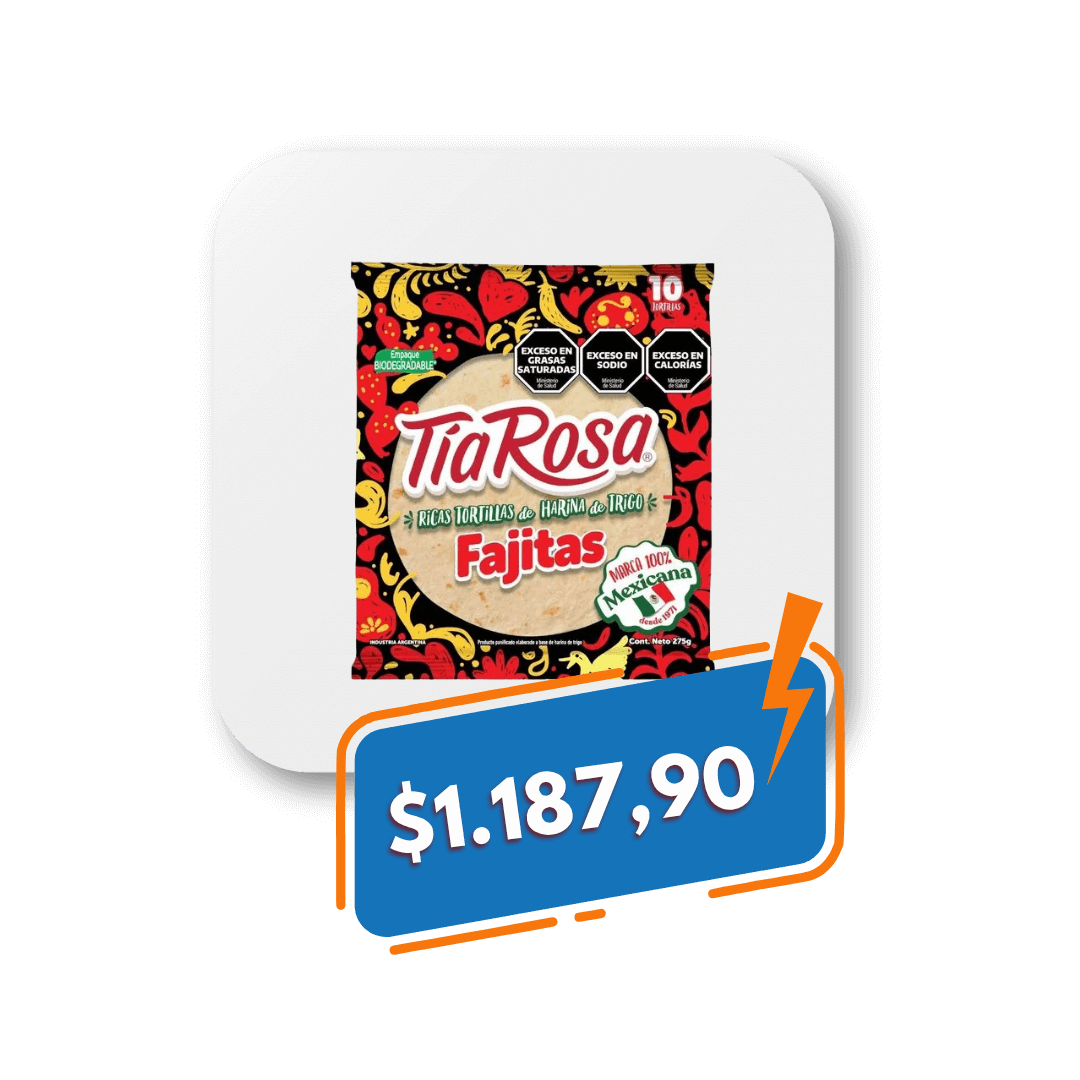
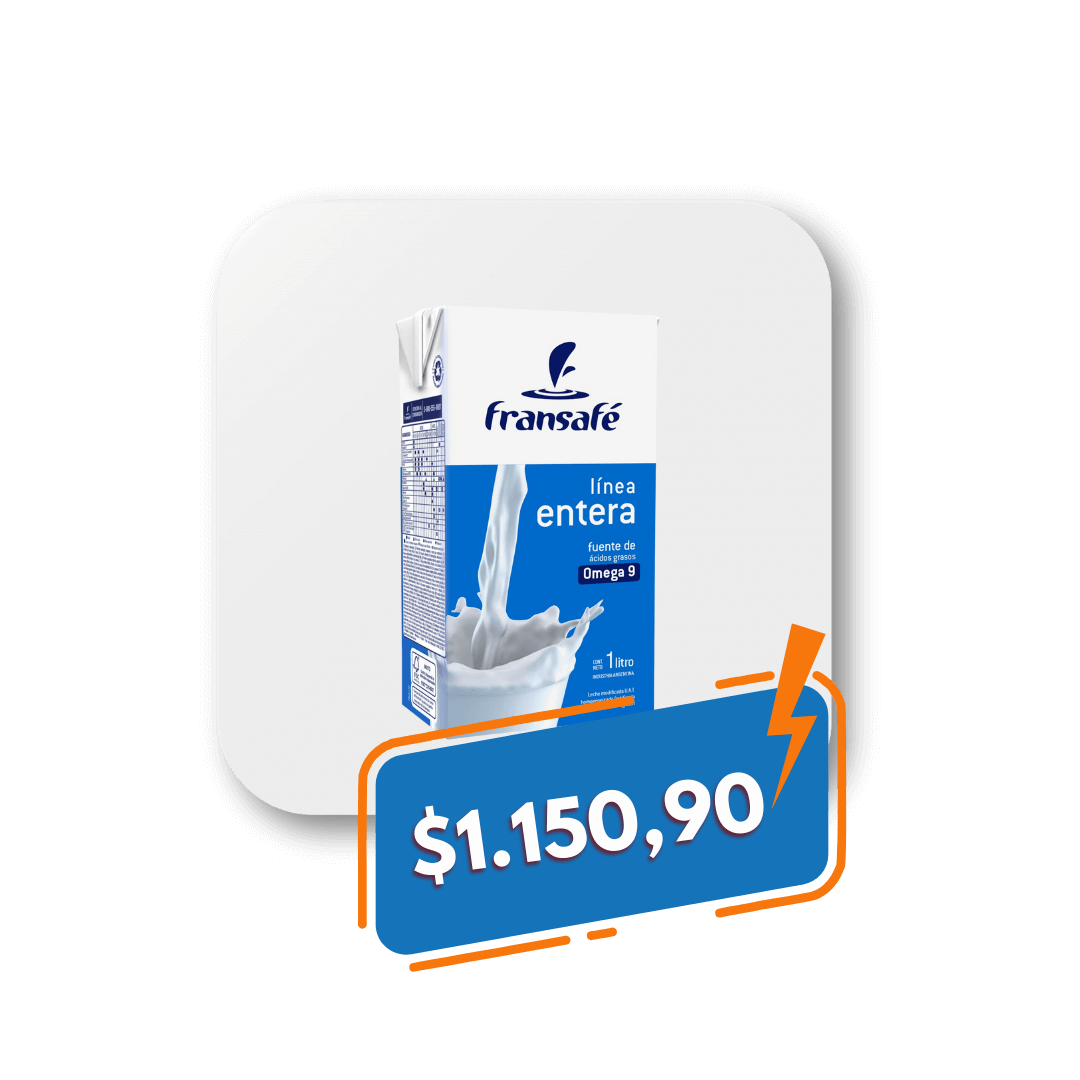
Actualizando ofertas

Changed region(s): [[0.2139, 0.1528, 0.7944, 0.9167]]

diff --git a/src/components/atoms/carousel/Carousel.jsx b/src/components/atoms/carousel/Carousel.jsx
@@ -10,7 +10,7 @@ import style from './Carousel.module.css';
 import { useMediaQuery } from '@mui/material';
 
 export const Carousel = () => {
-  const isDesktop = useMediaQuery('(min-width: 801px)');
+  const isDesktop = useMediaQuery('(min-width: 769px)');
 
   const config = {
     ...carouselConfig,
@@ -23,13 +23,13 @@ export const Carousel = () => {
     <Swiper {...config} className={style.swiper}>
       <SwiperSlide className={style.swiperSlide}>
         <div className={style.title}>
-          <p>LECHE LA SUIPACHENSE</p>
+          <p>MORTADELA PALADINI x Kg</p>
         </div>
         <img src="/assets/ofertas/1.png" alt="oferta1" />
       </SwiperSlide>
       <SwiperSlide className={style.swiperSlide}>
         <div className={style.title}>
-          <p>DULCE DE LECHE MILKAUT 400gr</p>
+          <p>YERBA AMANDA 500gr</p>
         </div>
         <img src="/assets/ofertas/2.png" alt="oferta2" />
       </SwiperSlide>
@@ -41,21 +41,27 @@ export const Carousel = () => {
       </SwiperSlide>
       <SwiperSlide className={style.swiperSlide}>
         <div className={style.title}>
-          <p>TORTILLAS TIA ROSA x10u</p>
+          <p>LECHE LARGA VIDA FRANSAFE</p>
         </div>
         <img src="/assets/ofertas/4.png" alt="oferta4" />
       </SwiperSlide>
       <SwiperSlide className={style.swiperSlide}>
         <div className={style.title}>
-          <p>AZÚCAR LEDESMA 1Kg</p>
+          <p>TOMATE TRITURADO DULCOR</p>
         </div>
-        <img src="/assets/ofertas/5.webp" alt="oferta5" />
+        <img src="/assets/ofertas/5.png" alt="oferta6" />
       </SwiperSlide>
       <SwiperSlide className={style.swiperSlide}>
         <div className={style.title}>
-          <p>QUESO UNTABLE RICREM CLÁSICO</p>
+          <p>HARINA TASSARA</p>
         </div>
         <img src="/assets/ofertas/6.png" alt="oferta6" />
+      </SwiperSlide>
+      <SwiperSlide className={style.swiperSlide}>
+        <div className={style.title}>
+          <p>AZÚCAR LEDESMA 1Kg</p>
+        </div>
+        <img src="/assets/ofertas/7.webp" alt="oferta7" />
       </SwiperSlide>
       {isDesktop && (
         <>
